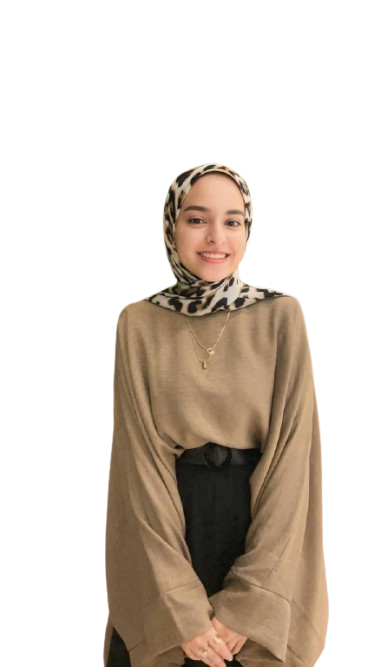
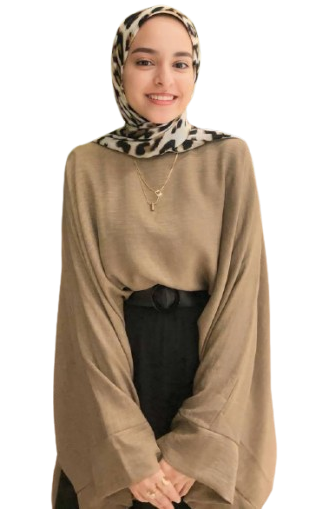
fix responsive for home

diff --git a/src/pages/Home/Home.module.css b/src/pages/Home/Home.module.css
@@ -17,19 +17,12 @@
     flex-wrap: wrap;
     max-width: 1200px;
     width: 100%;
+    height: 100vh;
 }
 
 .textSection {
     flex: 1;
-    max-width: 500px;
-}
-
-.subtitle {
-    color: var(--primary-Mocha);
-    font-weight: bold;
-    font-size: 0.9rem;
-    text-transform: uppercase;
-    letter-spacing: 1px;
+    align-content: center;
 }
 
 .title {
@@ -88,12 +81,18 @@
 
 .imgSection {
     flex: 1;
+    height: 100vh;
+    position: relative;
+    
 }
 
 .heroImage {
     width: 400px;
-    max-width: 100%;
-    object-fit: cover;
+    position: absolute;
+    bottom: 0;
+    right: 50%;
+    transform: translate(50%);
+
 }
 
 .cursor {
@@ -114,3 +113,16 @@
         opacity: 0;
     }
 }
+
+@media (max-width: 700px) {
+    .mainSection{
+        flex-direction: column;
+    }
+    .title {
+        font-size: 1.8rem;
+    }
+    .heroImage {
+        width: 270px;
+    }
+}
+
